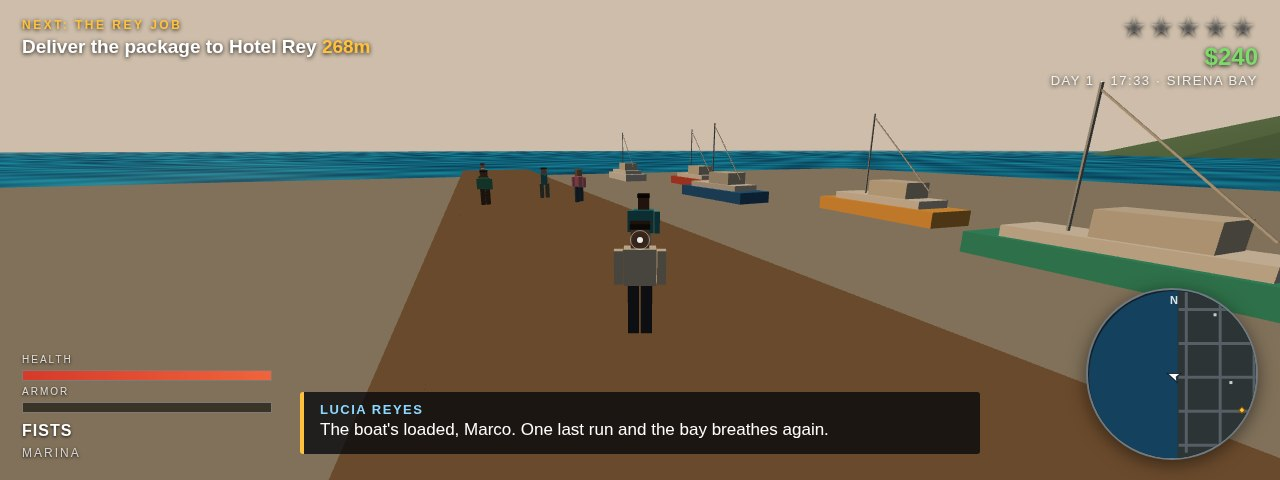
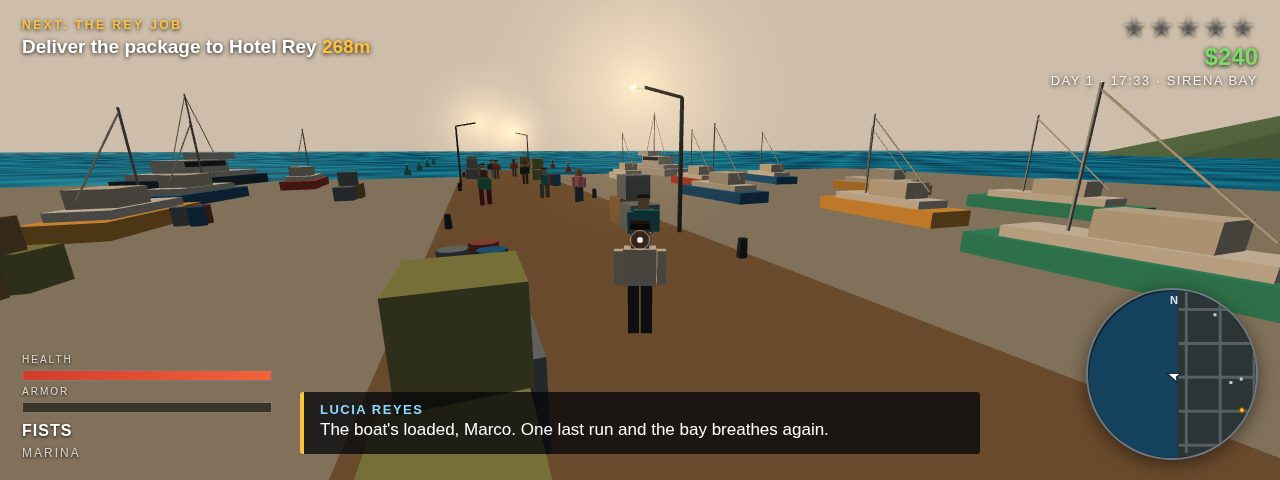
Densify the marina: more boats and yachts, apron props, buoys, livelier pier

diff --git a/game/src/citygen.js b/game/src/citygen.js
@@ -249,6 +249,44 @@ export function buildCity(batch, rng) {
   pushBoat(b, -30, 345, 0.4, rgb(0xf2f2f2));
   pushBoat(b, 60, 520, -0.3, rgb(0xd94f3d));
 
+  // -- Marina dressing: a second rank of moorings on each side, two yachts, the channel
+  // buoys, and the working clutter of a lived-in pier — cargo, drums, bollards, lamps.
+  // Everything here is placed with fixed numbers, never the shared rng: that stream goes
+  // on to seed the parked cars and the crowd, and a busier marina must not reshuffle the
+  // rest of the bay.
+  const mooredNorth = [[-48, 286, -0.1], [-35, 284, 0.08], [-22, 286, -0.05]];
+  mooredNorth.forEach(([bx, bz, yaw], k) => pushBoat(b, bx, bz, yaw, rgb(boatColors[(k + 2) % boatColors.length])));
+  const mooredSouth = [[-60, 334, 0.12], [-48, 337, -0.08], [-36, 334, 0.06]];
+  mooredSouth.forEach(([bx, bz, yaw], k) => pushBoat(b, bx, bz, yaw, rgb(boatColors[(k + 1) % boatColors.length])));
+  pushYacht(b, -67, 292, 0.1, rgb(0xf2f2f2));
+  pushYacht(b, -64, 344, -0.22, rgb(0x274b63));
+  for (const bx of [-84, -100, -116, -132]) {
+    pushBuoy(b, bx, 302, rgb(0xd94f3d)); // port hand, coming home
+    pushBuoy(b, bx, 328, rgb(0x3fae8a)); // starboard hand
+  }
+  // Bollards along both rails — they stand inside the rail colliders, so they need none.
+  const iron = rgb(0x2f363c);
+  for (const bx of [-66, -50, -34, -18]) b.cylinder(bx, 0.7, 310.9, 0.16, 0.13, 0.6, 6, iron, { cap: true });
+  for (const bx of [-58, -42, -26, -10]) b.cylinder(bx, 0.7, 319.1, 0.16, 0.13, 0.6, 6, iron, { cap: true });
+  // Cargo waiting on the deck and on the apron below. The middle of the pier stays clear
+  // for the walkway, and the south edge keeps a gap around the mission mark.
+  pushCrates(b, -24, 311.9, 0.73, addCollider, 0);
+  pushCrates(b, -52, 311.9, 0.73, addCollider, 1);
+  pushCrates(b, -64, 311.9, 0.73, addCollider, 2);
+  pushCrates(b, -12, 318.1, 0.73, addCollider, 1);
+  pushCrates(b, -56, 318.1, 0.73, addCollider, 0);
+  pushCrates(b, -66, 318.1, 0.73, addCollider, 2);
+  pushBarrels(b, -44, 311.9, 0.73, addCollider);
+  pushBarrels(b, -18, 318.1, 0.73, addCollider);
+  pushBarrels(b, -70, 317.9, 0.73, addCollider);
+  pushCrates(b, -24, 330, 0.02, addCollider, 2);
+  pushCrates(b, -46, 327, 0.02, addCollider, 0);
+  pushBarrels(b, -36, 331.5, 0.02, addCollider);
+  // Pier lamps, registered for their night glows like the street lamps above.
+  pushLamp(b, -22, 310.9, 0, 1); lamps.push([-22, 312.6]);
+  pushLamp(b, -46, 319.1, 0, -1); lamps.push([-46, 317.4]);
+  pushLamp(b, -68, 310.9, 0, 1); lamps.push([-68, 312.6]);
+
   // -- El Faro lighthouse on its rock point. ------------------------------------------------------
   const rock = rgb(0x6a6f72);
   b.cylinder(-20, -0.5, 462, 13, 9, 2.2, 9, rock, { cap: true });
@@ -272,6 +310,46 @@ function pushBoat(b, x, z, yaw, color) {
   b.box(x + 0.6, 1.6, z, 2.4, 0.9, 1.6, rgb(0xe8e2d2), { yaw });
   b.cylinder(x - 1.4, 1.2, z, 0.05, 0.05, 4.6, 5, rgb(0x9aa0a4), { cap: false });
   b.beam(x - 1.4, 5.6, z, x + 2.4, 1.6, z, 0.05, rgb(0xf0ead8));
+}
+
+/** A yacht: twice a boat's length, with a cabin, a glass band, a flybridge and a tall mast. */
+function pushYacht(b, x, z, yaw, color) {
+  const deckWhite = rgb(0xf7f4ec);
+  b.box(x, 0.45, z, 12.5, 1.1, 4.2, color, { yaw });
+  b.box(x, 1.25, z, 10.5, 0.55, 3.4, deckWhite, { yaw });
+  b.box(x + 0.8, 2.1, z, 5.2, 1.2, 2.6, deckWhite, { yaw });
+  b.box(x + 0.9, 2.35, z, 4.6, 0.5, 2.72, rgb(0x2a3c4c), { yaw });
+  b.box(x - 2.6, 3.05, z, 3.4, 0.7, 2.2, deckWhite, { yaw });
+  b.cylinder(x - 0.6, 1.5, z, 0.06, 0.06, 7.6, 5, rgb(0x9aa0a4), { cap: false });
+  b.beam(x - 0.6, 8.9, z, x + 3.4, 2.9, z, 0.05, rgb(0xf0ead8));
+  b.beam(x - 0.6, 8.9, z, x - 3.4, 3.5, z, 0.05, rgb(0xf0ead8));
+}
+
+/** A channel buoy riding the open water: drum, post and a small lit topmark. */
+function pushBuoy(b, x, z, color) {
+  b.cylinder(x, -0.5, z, 0.62, 0.42, 1.0, 7, color, { cap: true });
+  b.cylinder(x, 0.5, z, 0.1, 0.1, 0.7, 5, rgb(0x2f363c), { cap: false });
+  b.box(x, 1.35, z, 0.34, 0.3, 0.34, color, { emissive: 0.7 });
+}
+
+/** A stack of cargo crates standing on the ground at height y0; registers its own collider. */
+function pushCrates(b, x, z, y0, addCollider, variant) {
+  const cols = [0xb08954, 0x7d8a96, 0x9aa05a];
+  const c1 = rgb(cols[variant % 3]), c2 = rgb(cols[(variant + 1) % 3]);
+  b.box(x - 0.8, y0 + 0.55, z, 1.4, 1.1, 1.3, c1);
+  b.box(x + 0.75, y0 + 0.5, z + 0.15, 1.3, 1.0, 1.2, c2);
+  b.box(x - 0.15, y0 + 1.58, z + 0.05, 1.1, 0.95, 1.05, c2);
+  addCollider(x - 1.55, z - 0.8, x + 1.45, z + 0.8, y0 + 2.05);
+}
+
+/** A huddle of fuel drums standing on the ground at height y0; registers its own collider. */
+function pushBarrels(b, x, z, y0, addCollider) {
+  const cols = [0xa8574a, 0x2a6db0, 0x7d8a96];
+  const spots = [[-0.45, -0.2], [0.4, -0.35], [0.05, 0.45]];
+  spots.forEach(([dx, dz], i) => {
+    b.cylinder(x + dx, y0, z + dz, 0.34, 0.34, 0.95, 8, rgb(cols[i % 3]), { cap: true });
+  });
+  addCollider(x - 0.85, z - 0.8, x + 0.85, z + 0.85, y0 + 0.95);
 }
 
 /** The Plaza del Sol: fountain, palms, benches, café umbrellas — no buildings. */

diff --git a/game/src/pedestrians.js b/game/src/pedestrians.js
@@ -62,6 +62,26 @@ export function seedCrowd(world) {
     const ped = makePed(world, rng.range(-66, -14), 315 + rng.range(-3, 3));
     ped.state = 'stand';
   }
+  // Extra life around the water, seeded last so the crowd above keeps its shape: two more
+  // promenade walkers, anglers watching the boats from the north rail, and strollers
+  // walking the pier deck end to end on lanes that keep the cargo at the edges clear.
+  for (let k = 0; k < 2; k += 1) {
+    const ped = makePed(world, rng.range(30, 430), 458 + rng.range(-2, 3));
+    ped.route = { corners: [[16, 458], [444, 458], [444, 462], [16, 462]], next: rng.int(0, 3) };
+    const [tx, tz] = ped.route.corners[ped.route.next];
+    ped.targetX = tx; ped.targetZ = tz;
+  }
+  for (let k = 0; k < 2; k += 1) {
+    const ped = makePed(world, rng.range(-62, -48), 311.9);
+    ped.state = 'stand';
+    ped.yaw = Math.PI + rng.range(-0.25, 0.25); // facing the moored boats
+  }
+  for (let k = 0; k < 4; k += 1) {
+    const ped = makePed(world, rng.range(-64, -46), k % 2 ? 316.2 : 313.8);
+    ped.route = { corners: [[-67, 313.8], [-13, 313.8], [-13, 316.2], [-67, 316.2]], next: rng.int(0, 3) };
+    const [tx, tz] = ped.route.corners[ped.route.next];
+    ped.targetX = tx; ped.targetZ = tz;
+  }
 }
 
 /** A civilian bursting out of somewhere and running from a point — carjack victims, bail-outs. */
